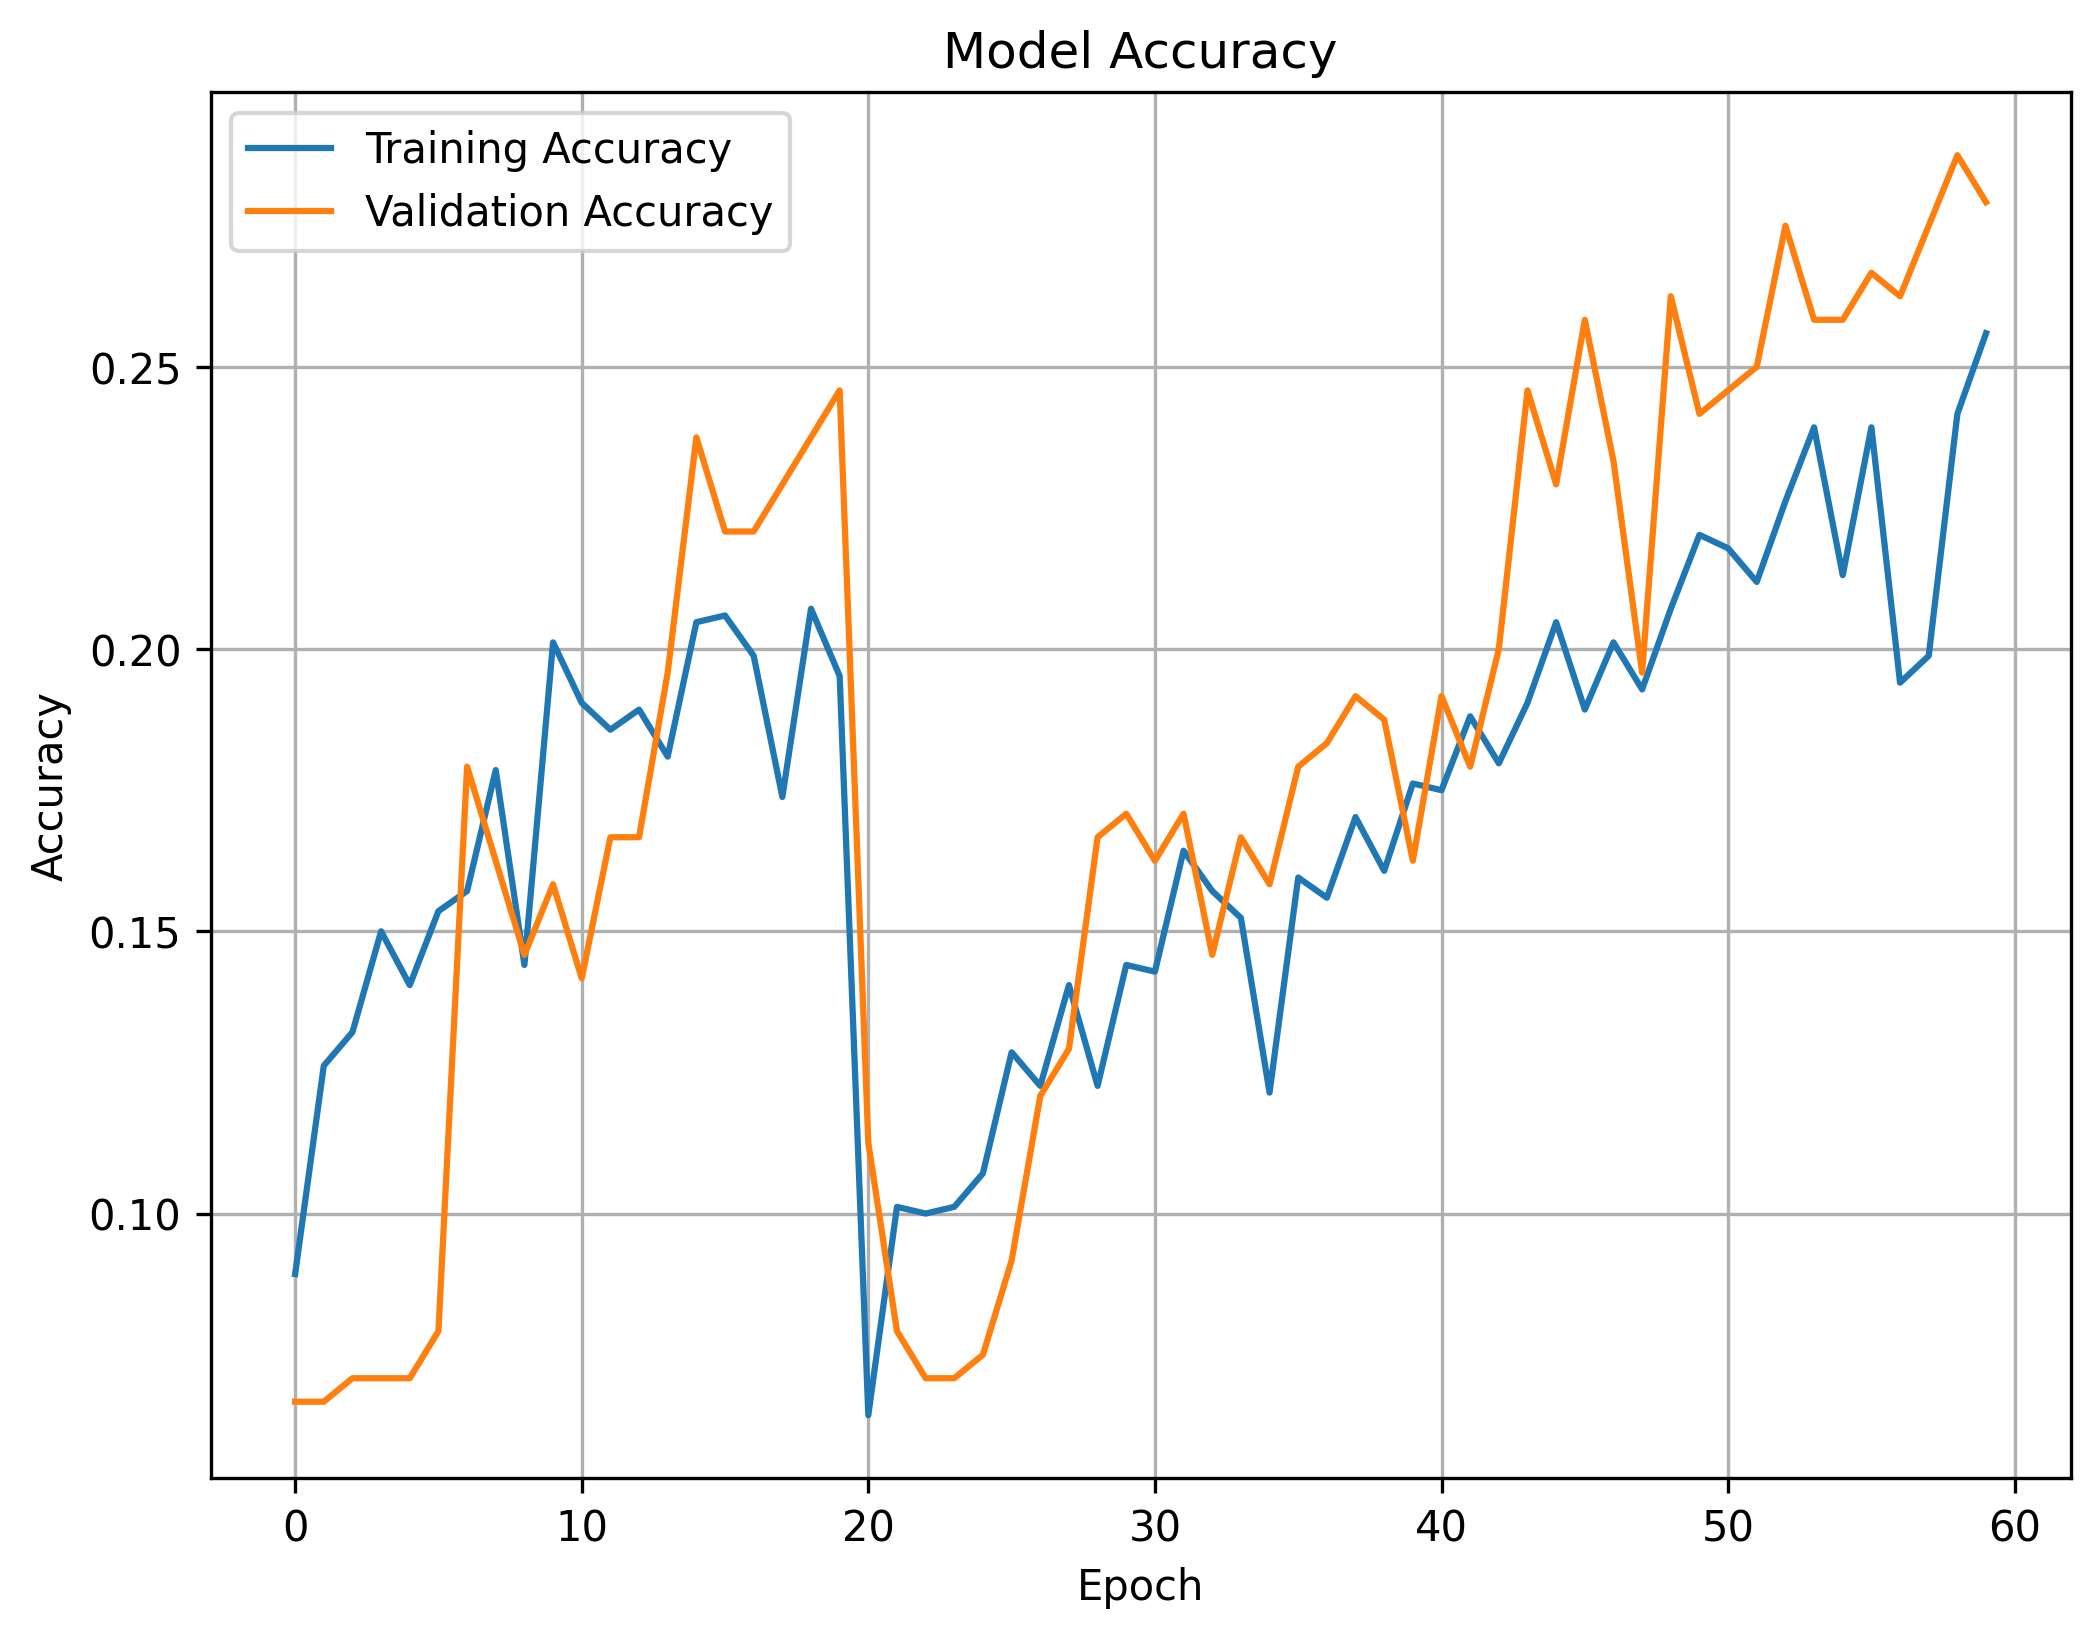
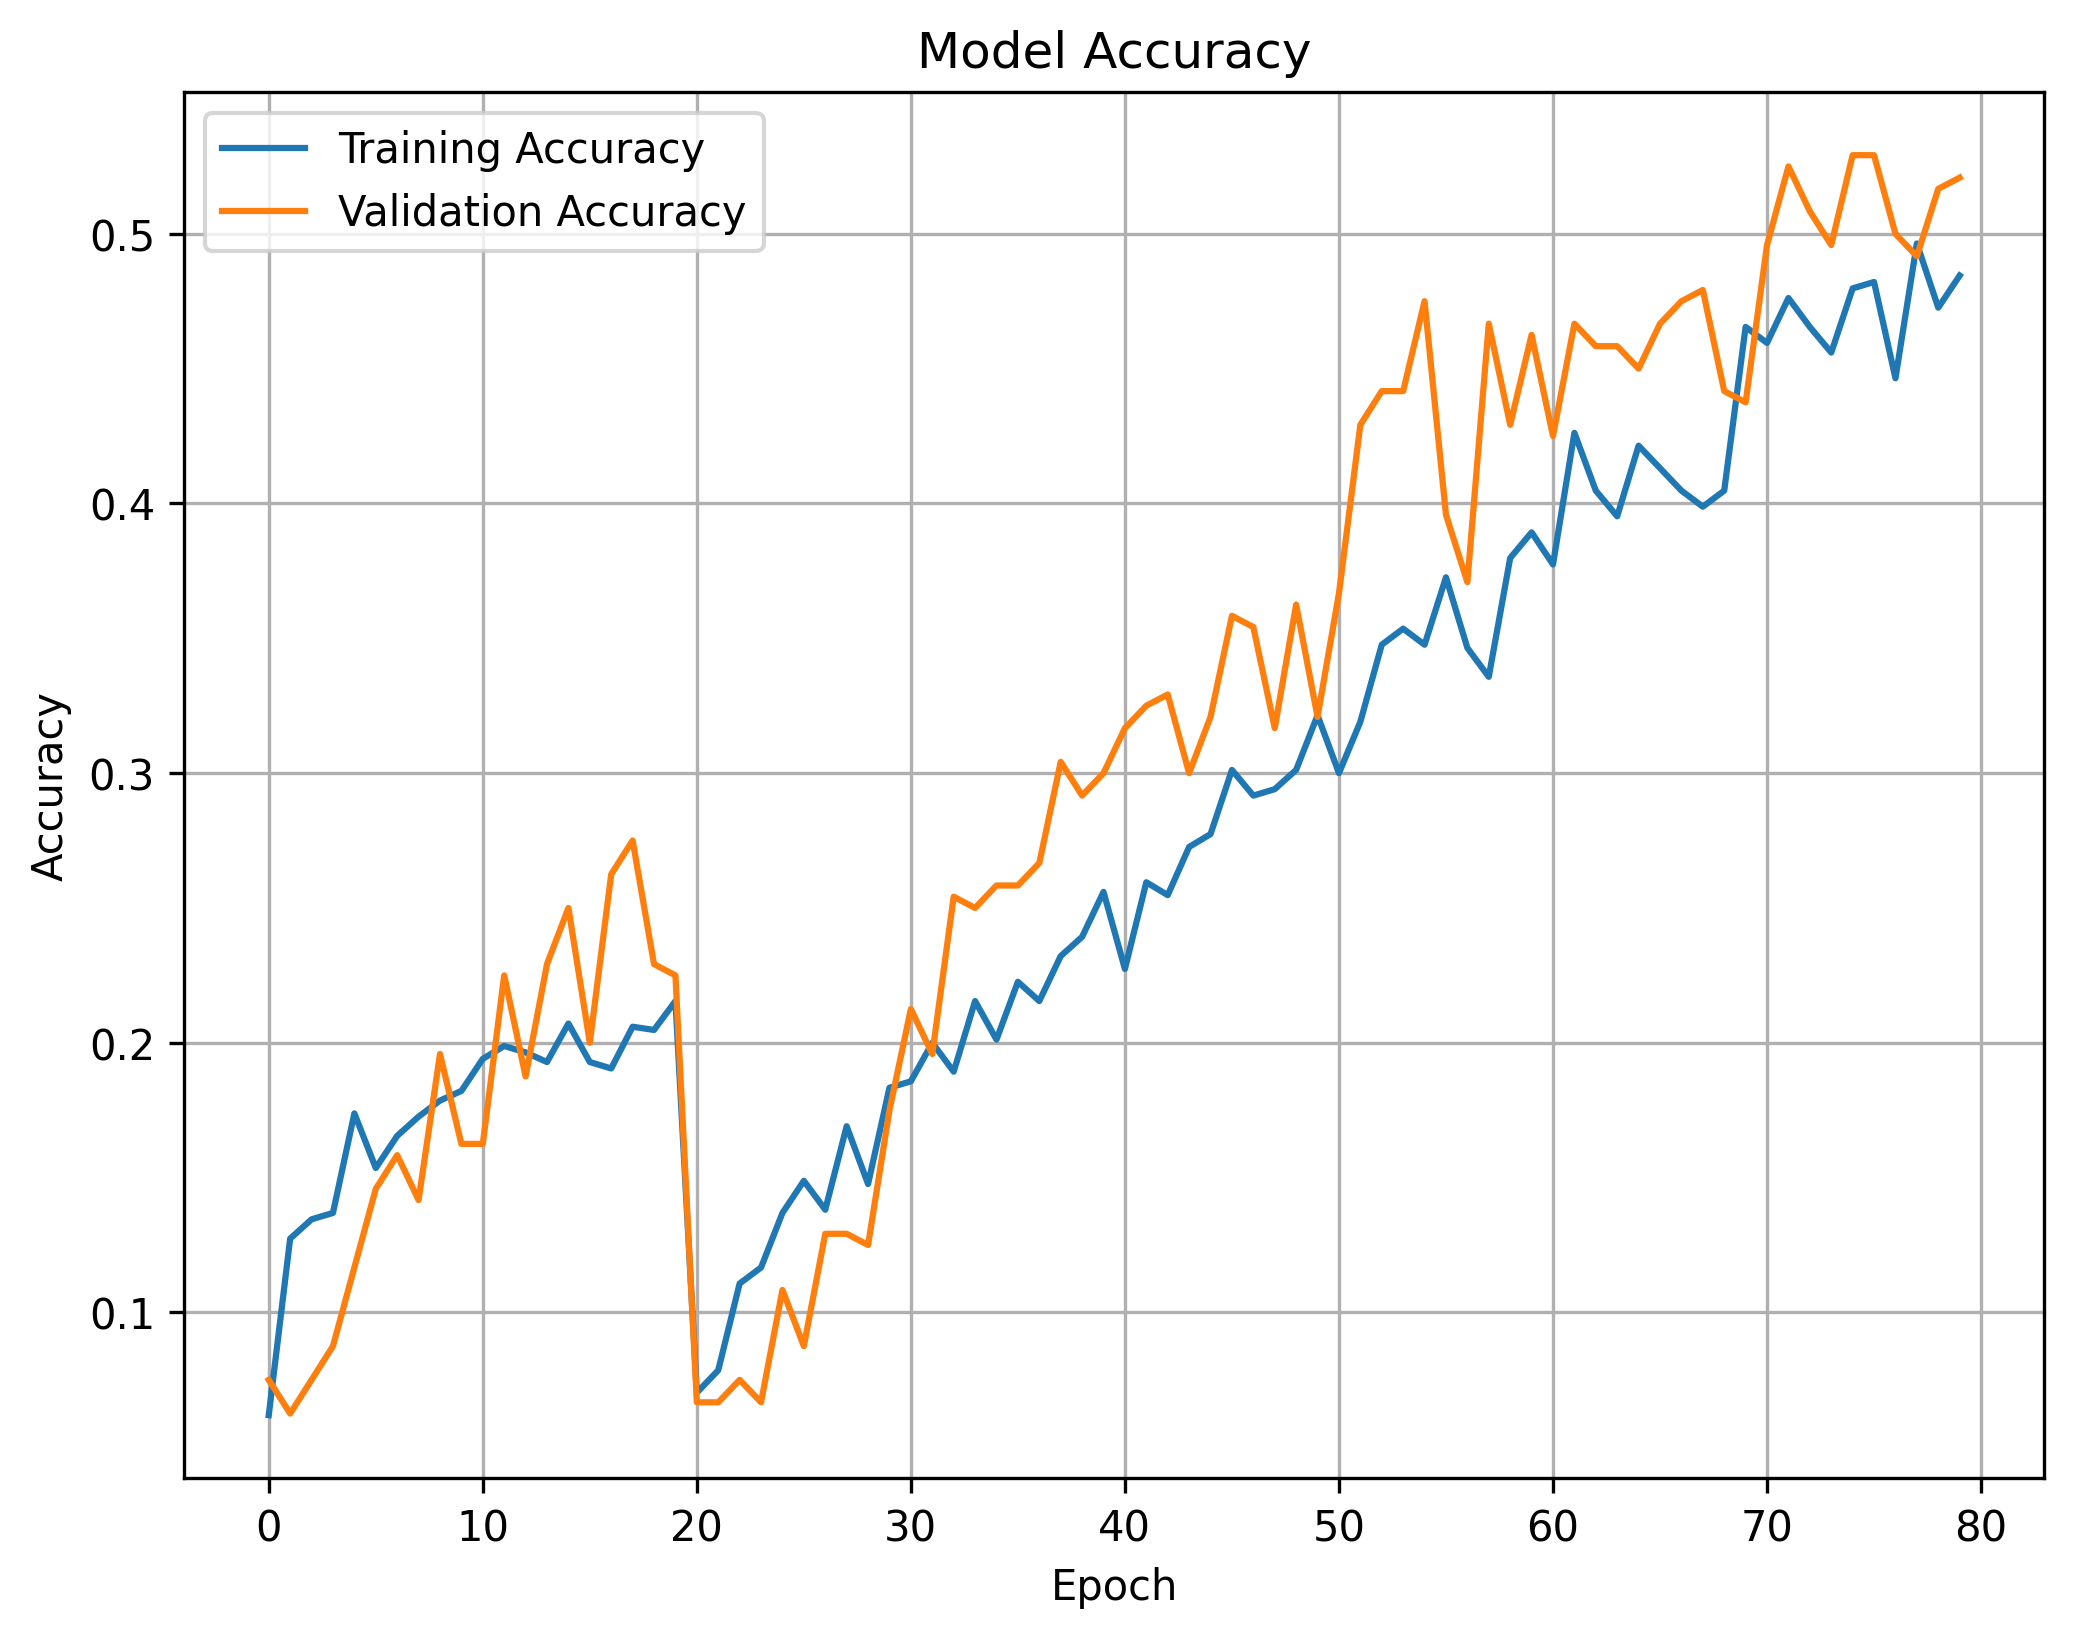
Add image inspection and confusion matrix visualization scripts
- Implemented `inspect_images` function to visualize sample images from each class in the training dataset.
- Added `inspect_confusion_matrix` function to plot a confusion matrix from test results to identify misclassifications.
- Saved output plots as 'sample_training_images.png' and 'confusion_matrix_inspection.png'.
- Included necessary imports for image processing and visualization.

diff --git a/src/inspect_data.py b/src/inspect_data.py
@@ -1,0 +1,71 @@
+import os
+import matplotlib.pyplot as plt
+from PIL import Image
+import pickle
+import seaborn as sns
+import numpy as np
+from sklearn.metrics import confusion_matrix
+
+def inspect_images(data_dir: str) -> None:
+    """
+    Visualize a few images from each class to check for quality or mislabeling.
+
+    Args:
+        data_dir: Path to animal_data with train/val/test subfolders.
+    """
+    class_names = ['Bear', 'Bird', 'Cat', 'Cow', 'Deer', 'Dog', 'Dolphin', 'Elephant', 'Giraffe',
+                   'Horse', 'Kangaroo', 'Lion', 'Panda', 'Tiger', 'Zebra']
+    num_samples = 3
+    plt.figure(figsize=(num_samples * 3, len(class_names) * 3))
+    
+    for i, class_name in enumerate(class_names):
+        class_dir = os.path.join(data_dir, 'train', class_name)
+        images = [f for f in os.listdir(class_dir) if f.endswith(('.jpg', '.jpeg', '.png'))]
+        if len(images) < num_samples:
+            continue
+        selected_images = images[:num_samples]
+        
+        for j, img_name in enumerate(selected_images):
+            img_path = os.path.join(class_dir, img_name)
+            img = Image.open(img_path).resize((224, 224))
+            plt.subplot(len(class_names), num_samples, i * num_samples + j + 1)
+            plt.imshow(img)
+            plt.title(f"{class_name} ({img_name})", fontsize=10)
+            plt.axis('off')
+    
+    plt.suptitle('Sample Training Images', fontsize=14, y=1.02)
+    plt.tight_layout()
+    plt.savefig('sample_training_images.png', dpi=300, bbox_inches='tight')
+    plt.close()
+
+def inspect_confusion_matrix(output_dir: str) -> None:
+    """
+    Plot confusion matrix to identify misclassified classes.
+
+    Args:
+        output_dir: Directory containing test_results.pkl.
+    """
+    with open(os.path.join(output_dir, 'test_results.pkl'), 'rb') as f:
+        results = pickle.load(f)
+    
+    y_true = results['y_true']
+    y_pred_classes = results['y_pred_classes']
+    class_names = results['class_names']
+
+    cm = confusion_matrix(y_true, y_pred_classes)
+    plt.figure(figsize=(12, 10))
+    sns.heatmap(cm, annot=True, fmt='d', cmap='Blues', xticklabels=class_names, yticklabels=class_names)
+    plt.title('Confusion Matrix')
+    plt.xlabel('Predicted')
+    plt.ylabel('True')
+    plt.xticks(rotation=45, ha='right')
+    plt.yticks(rotation=0)
+    plt.savefig('confusion_matrix_inspection.png', dpi=300, bbox_inches='tight')
+    plt.close()
+
+if __name__ == "__main__":
+    data_dir = "./animal_data"
+    output_dir = "./outputs"
+    inspect_images(data_dir)
+    inspect_confusion_matrix(output_dir)
+    print("Inspection plots saved: sample_training_images.png, confusion_matrix_inspection.png")

diff --git a/src/train.py b/src/train.py
@@ -13,7 +13,7 @@ IMG_SIZE = (224, 224)
 BATCH_SIZE = 16
 NUM_CLASSES = 15
 EPOCHS_INITIAL = 20
-EPOCHS_FINE = 40
+EPOCHS_FINE = 60
 DATA_DIR = './animal_data'
 OUTPUT_DIR = './outputs'
 
@@ -36,7 +36,8 @@ train_datagen = ImageDataGenerator(
     zoom_range=0.2,
     horizontal_flip=True,
     fill_mode='nearest',
-    brightness_range=[0.8, 1.2],
+    brightness_range=[0.7, 1.3],
+    channel_shift_range=20.0,
     preprocessing_function=tf.keras.applications.resnet50.preprocess_input
 )
 
@@ -85,9 +86,12 @@ base_model.trainable = False  # Freeze initially
 model = Sequential([
     base_model,
     GlobalAveragePooling2D(),
+    Dense(1024, activation='relu'),
+    BatchNormalization(),
+    Dropout(0.3),
     Dense(512, activation='relu'),
     BatchNormalization(),
-    Dropout(0.5),
+    Dropout(0.3),
     Dense(NUM_CLASSES, activation='softmax')
 ])
 
@@ -101,8 +105,8 @@ print("Initial Model Architecture:")
 model.summary()
 
 # Callbacks
-early_stopping = EarlyStopping(monitor='val_loss', patience=8, restore_best_weights=True)
-reduce_lr = ReduceLROnPlateau(monitor='val_loss', factor=0.5, patience=4, min_lr=1e-6)
+early_stopping = EarlyStopping(monitor='val_loss', patience=10, restore_best_weights=True)
+reduce_lr = ReduceLROnPlateau(monitor='val_loss', factor=0.5, patience=5, min_lr=1e-6)
 
 # Initial training
 print("Starting initial training...")
@@ -120,11 +124,11 @@ with open(os.path.join(OUTPUT_DIR, 'history.pkl'), 'wb') as f:
 # Fine-tuning
 print("Starting fine-tuning...")
 base_model.trainable = True
-for layer in base_model.layers[:100]:  # Freeze first 100 layers
+for layer in base_model.layers[:50]:  # Unfreeze more layers
     layer.trainable = False
 
 # Recompile with adjusted learning rate
-model.compile(optimizer=tf.keras.optimizers.Adam(learning_rate=5e-6),
+model.compile(optimizer=tf.keras.optimizers.Adam(learning_rate=1e-5),
               loss='categorical_crossentropy',
               metrics=['accuracy'])
 
@@ -147,7 +151,7 @@ with open(os.path.join(OUTPUT_DIR, 'history_fine.pkl'), 'wb') as f:
 
 # Evaluate on test set
 test_generator.reset()
-steps = int(np.ceil(120 / BATCH_SIZE))  # Match create_split.py's ~120 test samples
+steps = int(np.ceil(120 / BATCH_SIZE))
 test_loss, test_accuracy = model.evaluate(test_generator, steps=steps)
 print(f"Test Accuracy: {test_accuracy*100:.2f}%")
 print(f"Test Loss: {test_loss:.4f}")
